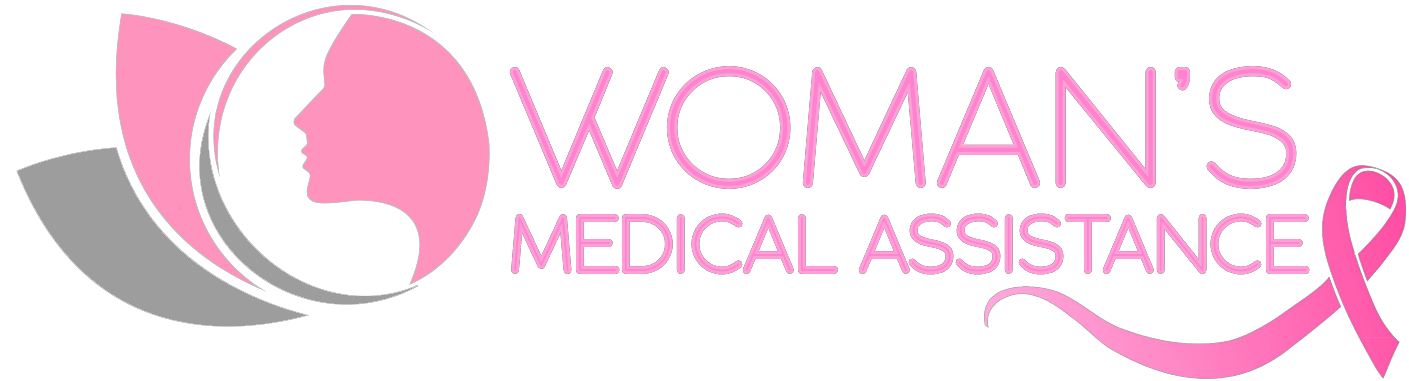
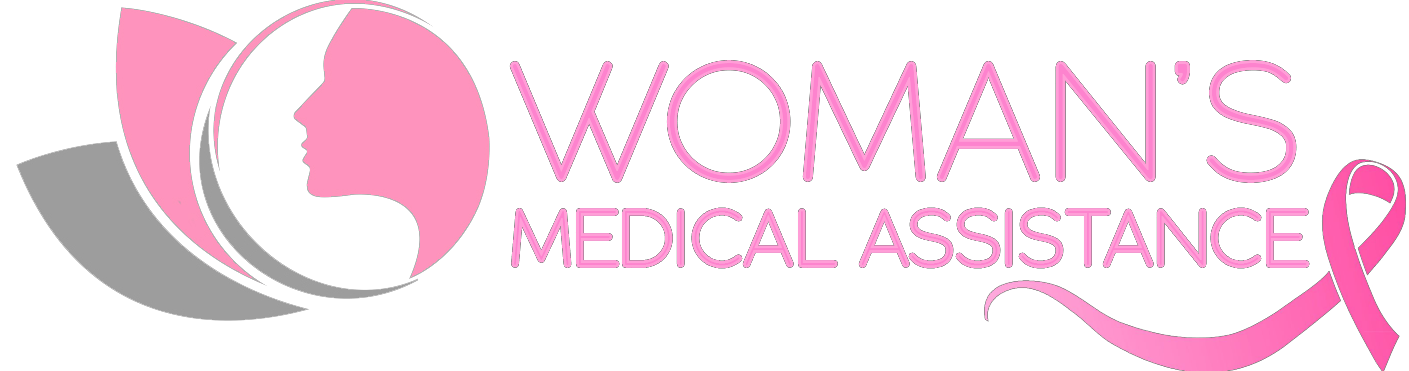
modifico color del modal

diff --git a/index.html b/index.html
@@ -31,7 +31,7 @@
 
   <body>
     <header>
-      <nav class="navbar navbar-expand-lg py-3">
+      <nav class="navbar navbar-expand-lg ">
         <div class="container-fluid">
           <a class="navbar-brand" href="./index.html">
             <img
@@ -54,7 +54,7 @@
           </button>
           <div class="collapse navbar-collapse" id="navbarSupportedContent">
             <ul class="navbar-nav">
-              <li class="nav-item me-2 fs-4">
+              <li class="nav-item me-2 links_header">
                 <a
                   class="nav-link active"
                   aria-current="page"
@@ -63,12 +63,12 @@
                 >
               </li>
              
-              <li class="nav-item mx-2 fs-4">
+              <li class="nav-item mx-2 links_header">
                 <a class="nav-link" aria-current="page" href="./acercade.html"
                   >Acerca de</a
                 >
               </li>
-              <li class="nav-item mx-2 fs-4">
+              <li class="nav-item mx-2 links_header">
                 <a
                   id="cursorLogin"
                   class="nav-link"
@@ -91,7 +91,7 @@
         <div class="modal-dialog">
           <div class="modal-content">
             <div class="modal-header">
-              <h1 class="modal-title fs-5" id="modalUsuarioLabel">
+              <h1 class="modal-title fs-4 login_user" id="modalUsuarioLabel">
                 Ingresar Usuario
               </h1>
               <button
@@ -110,7 +110,7 @@
                   <input
                     type="text"
                     placeholder="Usuario"
-                    class="form-control"
+                    class="form-control "
                     id="usuarioLogin"
                     maxlength="30"
                     required
@@ -140,7 +140,7 @@
                   <button
                     id="buttonIngresar"
                     type="submit"
-                    class="btn btn-primary"
+                    class="btn btn-rose"
                   >
                     Ingresar
                   </button>

diff --git a/admin.html b/admin.html
@@ -32,7 +32,7 @@
   </head>
   <body>
     <header>
-      <nav class="navbar navbar-expand-lg py-3">
+      <nav class="navbar navbar-expand-lg">
         <div class="container-fluid">
           <a class="navbar-brand" href="./index.html">
             <img
@@ -57,7 +57,7 @@
             <ul class="navbar-nav d-flex">
               <li class="nav-item">
                 <a
-                  class="nav-link fs-4 me-2"
+                  class="nav-link links_header me-2"
                   aria-current="page"
                   href="./pages/CRUDpac.html"
                   >Cargar Paciente</a
@@ -65,7 +65,7 @@
               </li>
               <li class="nav-item">
                 <a
-                  class="nav-link fs-4 ms-2"
+                  class="nav-link links_header ms-2"
                   aria-current="page"
                   href="./pages/CRUDturno.html"
                   >Cargar Turno</a

diff --git a/css/styleHeader.css b/css/styleHeader.css
@@ -6,12 +6,25 @@
 }
 
 #headerLogo {
-    width: 28vh;
+    width: 32vh;
+}
+
+.links_header{
+    font-size: 1.3rem;
+}
+.btn-rose{  
+    background-color:#EA5880 !important;
+    color: #fff !important;
+    
+   
+}
+.login_user{
+    
+    color: #EA5880;
 }
 
 .navbar {
-    font-size: 2.5vh;
-    /* height: 12vh; */
+    
     box-shadow: 0 0 10px 0 rgba(0, 0, 0, 0.2);
     background: rgb(250, 243, 247);
     background: linear-gradient(90deg, rgba(250, 243, 247, 0.981127485173757) 5%, rgba(237, 192, 217, 0.9923319669664741) 16%, rgba(233, 178, 206, 1) 21%, rgba(231, 136, 179, 1) 55%, rgba(230, 110, 159, 1) 100%);
